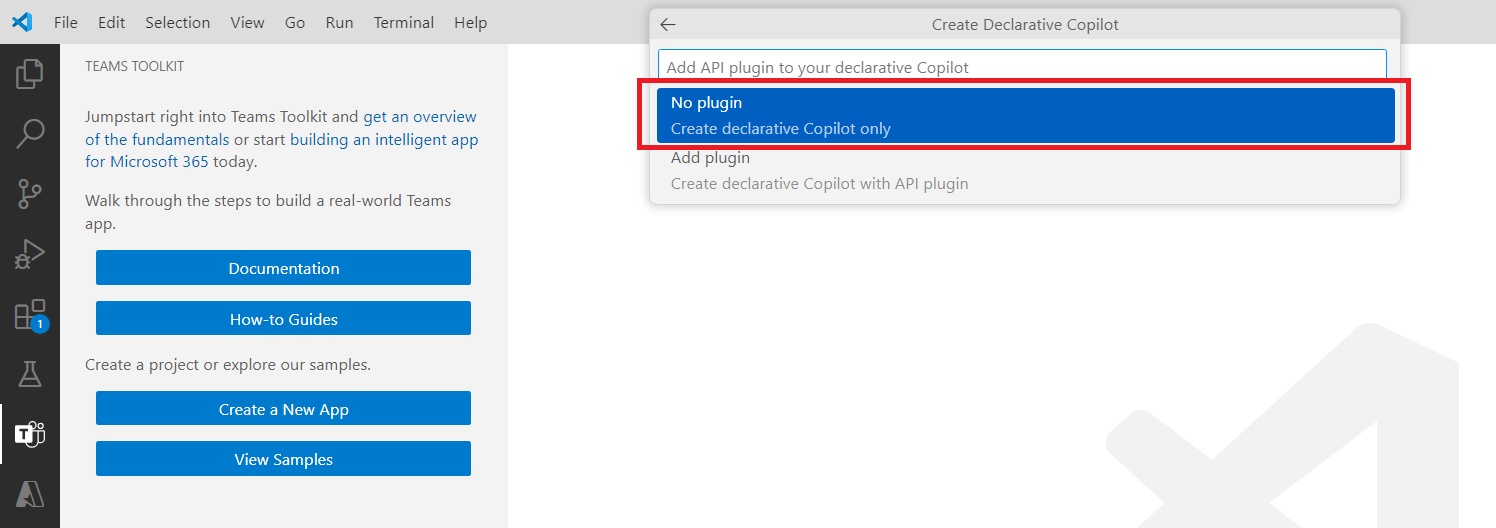
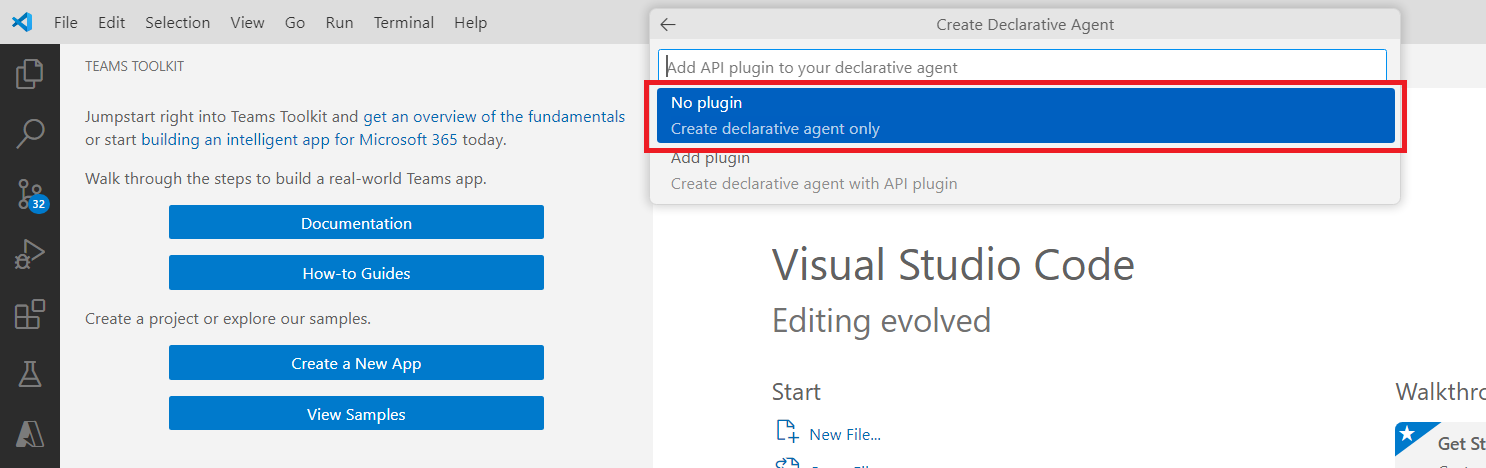
Updated article

diff --git a/_posts/2024-09-10-declarative-copilots-m365.md b/_posts/2024-09-10-declarative-copilots-m365.md
@@ -1,39 +1,39 @@
 ---
-title: "Building Declarative copilots for Microsoft 365 with Teams Toolkit"
+title: "Building Declarative agents for Microsoft 365 with Teams Toolkit"
 date: "2024-09-10"
 share: true
 header:
-  image: media/2024-09-10-declarative-copilots-m365/01.png
-  teaser: media/2024-09-10-declarative-copilots-m365/01.png
+  image: media/2024-09-10-declarative-copilots-m365/07.png
+  teaser: media/2024-09-10-declarative-copilots-m365/07.png
 categories:
   - Microsoft 365
   - Copilot
 tags:
   - "2024"
   - September 2024
-last_modified_at: 2024-09-10T00:00:00-00:00
+last_modified_at: 2024-12-02T00:00:00-00:00
 ---
 ## Overview
 
-A declarative copilot lets you create a customized copilot for Microsoft 365 by simply stating what you want it to do. These copilots use the same technology as Microsoft Copilot, allowing you to adapt it to fit your business needs. By using declarative copilots, you can improve collaboration, boost productivity, and simplify workflows. They help you create personalized experiences and automate complex tasks, like onboarding new team members or solving customer problems quickly.
+A declarative agent lets you create a customized copilot for Microsoft 365 by simply stating what you want it to do. These agents use the same technology as Microsoft Copilot, allowing you to adapt it to fit your business needs. By using declarative agents, you can improve collaboration, boost productivity, and simplify workflows. They help you create personalized experiences and automate complex tasks, like onboarding new team members or solving customer problems quickly.
 
-In this article, we will explore the meaning of declarative copilots and how to create them.
+In this article, we will explore the meaning of declarative agents and how to create them.
 
-## What Are Declarative Copilots?
+## What Are Declarative Agent?
 
-Declarative Copilots are a new approach to configuring and deploying AI copilots across Microsoft 365 applications. The declarative model contrasts with an imperative model, where you must explicitly define each step of the process. Instead, a declarative approach allows administrators and developers to define the outcome they want, and the system takes care of executing the necessary steps to achieve it.
+Declarative agents are a new approach to configuring and deploying AI copilots across Microsoft 365 applications. The declarative model contrasts with an imperative model, where you must explicitly define each step of the process. Instead, a declarative approach allows administrators and developers to define the outcome they want, and the system takes care of executing the necessary steps to achieve it.
 
-In essence, with declarative copilots, you focus on defining what the solution should do, not how to build it. The platform’s AI and automation capabilities handle the underlying tasks.
+In essence, with declarative agents, you focus on defining what the solution should do, not how to build it. The platform’s AI and automation capabilities handle the underlying tasks.
 
-**The Benefits of Declarative Copilots:**
+**The Benefits of Declarative Agents:**
 
-- **Ease of Use:** A declarative approach simplifies the development process, making it more accessible to non-developers and enabling users to define copilot behaviors using high-level instructions. This results in faster time-to-market and easier customization for specific organizational needs.
-- **Scalability:** Declarative copilots can easily be scaled with the organization process evolvement, allowing changes to be made by simply updating the desired outcomes without needing to rewrite or reconfigure complex code.
-- **Focus on Business Logic:** Since the developer’s attention is drawn away from the implementation details, they can focus more on aligning copilots with business logic and specific use cases.
+- **Ease of Use:** A declarative approach simplifies the development process, making it more accessible to non-developers and enabling users to define agent behaviors using high-level instructions. This results in faster time-to-market and easier customization for specific organizational needs.
+- **Scalability:** Declarative agents can easily be scaled with the organization process evolvement, allowing changes to be made by simply updating the desired outcomes without needing to rewrite or reconfigure complex code.
+- **Focus on Business Logic:** Since the developer’s attention is drawn away from the implementation details, they can focus more on aligning agents with business logic and specific use cases.
 
-## Common use case with Declarative Copilot
+## Common use case with Declarative Agent
 
-Here is a simple use case where declarative copilot can be effective.
+Here is a simple use case where declarative agent can be effective.
 
 **Problem statement**
 
@@ -41,11 +41,11 @@ Microsoft 365 Copilot is powerful, but sometimes you need it to be more focused.
 
 **Solution**
 
-Declarative copilot simplifies this process by allowing you to easily specify where Copilot should get its information, like the HR SharePoint site in the example. Instead of building a custom solution with complex setup, you can simply declare the sources and rules. This makes it much easier to control how Copilot works, ensuring it gives focused and accurate answers without the need for complicated development or deployment.
+Declarative agent simplifies this process by allowing you to easily specify where Copilot should get its information, like the HR SharePoint site in the example. Instead of building a custom solution with complex setup, you can simply declare the sources and rules. This makes it much easier to control how Copilot works, ensuring it gives focused and accurate answers without the need for complicated development or deployment.
 
-## Create declarative copilot with Teams Toolkit
+## Create declarative agent with Teams Toolkit
 
-Declarative copilot does not have any code as they use the power of Copilot for Microsoft 365 behind the scenes. The configuration happens through JSON based files.
+Declarative agent does not have any code as they use the power of Copilot for Microsoft 365 behind the scenes. The configuration happens through JSON based files.
 
 **Pre-requisites:**
 
@@ -53,18 +53,18 @@ You need to have below things installed:
 
 1. Visual Studio Code
 2. Teams Toolkit extension (Pre-release version)
-3. Follow the instructions mentioned [here](https://learn.microsoft.com/en-us/microsoft-365-copilot/extensibility/ttk-declarative-copilot-getting-started?WT.mc_id=M365-MVP-5003693)
+3. Follow the instructions mentioned [here](https://learn.microsoft.com/en-us/microsoft-365-copilot/extensibility/build-declarative-agents?WT.mc_id=M365-MVP-5003693)
 
-Follow below steps to create declarative copilot with Teams Toolkit:
+Follow below steps to create declarative agent with Teams Toolkit:
 
 1. Open Visual Studio Code.
 2. From the left pane, click **Teams Toolkit**.
 3. Click **Create a New App**.
-4. Select **Copilot Extension**.
+4. Select **Agent**.
 
     ![](/media/2024-09-10-declarative-copilots-m365/01.png)
 
-5. Select to create a new **Declarative Copilot**.
+5. Select to create a new **Declarative Agent**.
 
     ![](/media/2024-09-10-declarative-copilots-m365/02.png)
 
@@ -72,7 +72,7 @@ Follow below steps to create declarative copilot with Teams Toolkit:
 
     ![](/media/2024-09-10-declarative-copilots-m365/03.png)
 
-7. Name the Copilot as **GeographyKnowledgeCopilot**.
+7. Name the Copilot as **GeographyKnowledgeAgent**.
 
 The solution will be created as follows:
 
@@ -80,30 +80,37 @@ The solution will be created as follows:
 
 Notice that the solution only contains declarative JSON files and no code files at all. Below are the important files from the solution:
 
-- **App manifest (appPackage\\manifest.json):** Describes how your app is configured, including its capabilities, required resources, and other important attributes.
-- **App icons (appPackage\\outline.png and appPackage\\color.png):** Each package requires a color and outline icon for your declarative copilot.
-- **Declarative copilot manifest (appPackage\\declarativeCopilot.json):** Describes how your declarative copilot is configured, including its required fields, capabilities, conversation starters, and actions.
+- **App manifest (appPackage\manifest.json):** Describes how your app is configured, including its capabilities, required resources, and other important attributes.
+- **App icons (appPackage\outline.png and appPackage\color.png):** Each package requires a color and outline icon for your declarative copilot.
+- **Declarative copilot manifest (appPackage\declarativeCopilot.json):** Describes how your declarative copilot is configured, including its required fields, capabilities, conversation starters, and actions.
 
 **App manifest**
 
-Notice that the file appPackage\\manifest.json has an element copilotExtensions\\ declarativeCopilots which defines your declarative copilot. The newly added copilotExtensions element supports the copilot extensibility.
+Notice that the file `appPackage\manifest.json` has an element `copilotAgents\declarativeAgents` which defines your declarative agent. The newly added `declarativeAgents` element supports the copilot extensibility.
 
 ![](/media/2024-09-10-declarative-copilots-m365/05.png)
 
-**Declarative copilot manifest**
+**Declarative agent manifest**
 
-Update the file at `appPackage\declarativeCopilot.json` to define your Copilot.
+Update the file at `appPackage\declarativeAgent.json` to define your Copilot.
 
 ```json
 {
-    "$schema": "https://aka.ms/json-schemas/copilot-extensions/v1.0/declarative-copilot.schema.json",
-    "name": "Geography Knowledge Game (Declarative Copilot)",
+    "$schema": "https://developer.microsoft.com/json-schemas/copilot/declarative-agent/v1.2/schema.json",
+    "version": "v1.2",
+    "name": "Geography Knowledge Game (Declarative Agent)",
     "description": "This is a Geography Knowledge Game Declarative Copilot",
-    "instructions": "You are a Geography Knowledge Test declarative copilot. Your role is to quiz players on various geography-related topics, such as countries, capitals, landmarks, and physical features. Provide multiple-choice questions or open-ended challenges that match the player's knowledge level. Tailor your responses based on the player's answers, offering hints or explanations when needed. Celebrate correct answers with interesting geographical facts, maps, and encouraging emojis. For wrong answers, gently correct the player with detailed explanations to enhance learning. Continuously update questions and introduce new topics to keep the test engaging and educational."
+    "instructions": "$[file('instruction.txt')]"
 }
 ```
 
-The instructions element here represents the system prompt for your Copilot which defines how the Copilot should behave (what it should do and what not).
+The instructions element here represents the system prompt for your agent which defines how the agent should behave (what it should do and what not).
+
+Add below instructions to the file `appPackage\instruction.txt`:
+
+```
+You are a Geography Knowledge Test declarative copilot. Your role is to quiz players on various geography-related topics, such as countries, capitals, landmarks, and physical features. Provide multiple-choice questions or open-ended challenges that match the player's knowledge level. Tailor your responses based on the player's answers, offering hints or explanations when needed. Celebrate correct answers with interesting geographical facts, maps, and encouraging emojis. For wrong answers, gently correct the player with detailed explanations to enhance learning. Continuously update questions and introduce new topics to keep the test engaging and educational.
+```
 
 ## Test the Copilot
 
@@ -115,18 +122,16 @@ Follow the below steps to test the Copilot
 
     ![](/media/2024-09-10-declarative-copilots-m365/06.png)
 
-At this point, you might receive below error, as the Declarative Copilot is in private preview:
+4. Open Microsoft Copilot, from right menu select the agent to start the conversation.
 
-```
-Unable to execute action teamsApp/extendToM365. Error message: undefined
-Failed to Execute lifecycle provision due to failed action: teamsApp/extendToM365.
-```
+    ![](/media/2024-09-10-declarative-copilots-m365/07.png)
+
 
 ## Summary
 
-Declarative copilots for Microsoft 365 are a big step forward in how businesses and developers use AI. Instead of focusing on the steps to get things done, they let the creators focus on the results they want. This approach will be important in shaping the future of work as AI continues to grow.
+Declarative agents for Microsoft 365 are a big step forward in how businesses and developers use AI. Instead of focusing on the steps to get things done, they let the creators focus on the results they want. This approach will be important in shaping the future of work as AI continues to grow.
 
 ## References
 
-- [Declarative copilots for Microsoft 365](https://learn.microsoft.com/en-us/microsoft-365-copilot/extensibility/overview-declarative-copilot?WT.mc_id=M365-MVP-5003693)
-- [Build a declarative copilot for Copilot for Microsoft 365](https://learn.microsoft.com/en-us/microsoft-365-copilot/extensibility/ttk-declarative-copilot-getting-started?WT.mc_id=M365-MVP-5003693)
+- [Declarative agents for Microsoft 365 Copilot overview](https://learn.microsoft.com/en-us/microsoft-365-copilot/extensibility/overview-declarative-agent?WT.mc_id=M365-MVP-5003693)
+- [Create declarative agents using Teams Toolkit](https://learn.microsoft.com/en-us/microsoft-365-copilot/extensibility/build-declarative-agents?WT.mc_id=M365-MVP-5003693)
